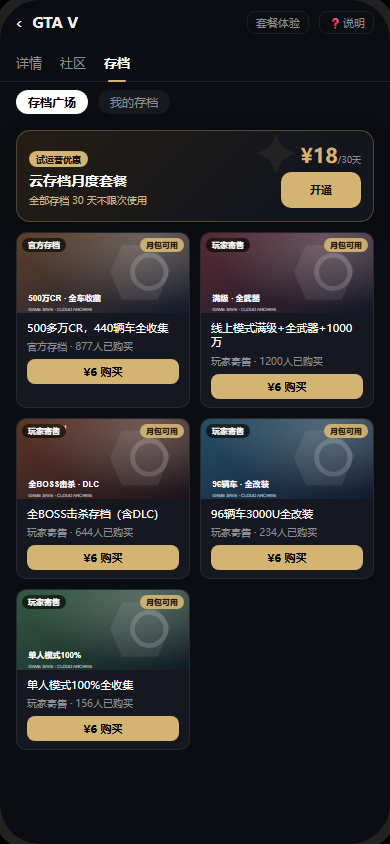
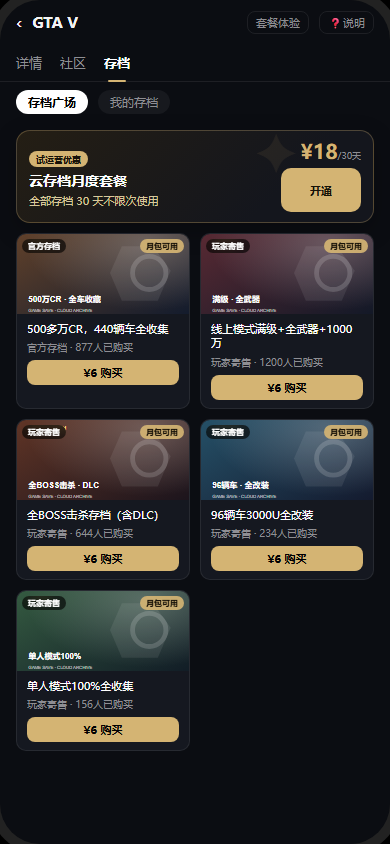
fix: improve compact pass card accessibility

diff --git a/demos/充值与商城/云存档付费demo.html b/demos/充值与商城/云存档付费demo.html
@@ -57,9 +57,9 @@ body{background:#000;display:flex;flex-direction:column;align-items:center;min-h
 .package-main{position:relative;z-index:1;min-width:0;flex:1}
 .package-side{position:relative;z-index:1;width:92px;flex:0 0 92px;display:flex;flex-direction:column;align-items:flex-end;gap:7px}
 .package-promo{display:inline-block;padding:2px 7px;border-radius:8px;background:var(--primary);color:#171208;font-size:9px;font-weight:bold;margin-bottom:4px}
-.package-name{display:block;font-size:14px;color:#fff;white-space:nowrap}.package-copy{font-size:10px;color:#c8b98e;margin-top:3px;white-space:nowrap}
+.package-name{display:block;font-size:14px;color:#fff;white-space:nowrap}.package-copy{font-size:11px;color:#d8c89d;margin-top:3px;white-space:nowrap}
 .package-price{text-align:right;white-space:nowrap;line-height:1}.package-price strong{font-size:20px;color:var(--primary)}.package-price span{font-size:9px;color:var(--sub)}
-.package-action{width:80px;min-height:36px;padding:7px 8px;border-radius:10px;border:none;background:var(--primary);color:#171208;font-size:11px;font-weight:bold;cursor:pointer;white-space:nowrap}
+.package-action{width:80px;min-height:44px;padding:7px 8px;border-radius:10px;border:none;background:var(--primary);color:#171208;font-size:11px;font-weight:bold;cursor:pointer;white-space:nowrap}
 .package-action.ghost{background:rgba(212,180,115,.12);color:var(--primary);border:1px solid rgba(212,180,115,.22);cursor:default}
 .status-card{margin:10px 16px 0;padding:11px 12px;border-radius:12px;background:linear-gradient(135deg,rgba(212,180,115,.14),rgba(255,255,255,.025));border:1px solid rgba(212,180,115,.2)}
 .status-row{display:flex;justify-content:space-between;align-items:center;gap:8px}.status-title{font-size:12px;font-weight:bold}.status-pill{font-size:9px;padding:2px 7px;border-radius:9px;background:rgba(255,255,255,.08);color:var(--sub)}.status-pill.active{background:rgba(82,196,26,.14);color:var(--green)}.status-pill.expired{background:rgba(245,34,45,.14);color:#ff7875}

diff --git a/docs/superpowers/specs/2026-07-27-cloud-save-compact-pass-card-design.md b/docs/superpowers/specs/2026-07-27-cloud-save-compact-pass-card-design.md
@@ -20,7 +20,7 @@
 
 - 展示价格“¥18/30天”。
 - 价格下方展示紧凑操作按钮。
-- 按钮点击热区不小于 72×36px。
+- 按钮点击热区不小于 72×44px。
 
 ### 2.3 删除内容
 
@@ -66,7 +66,7 @@
 ## 7. 验证要点
 
 - 390px 竖屏下卡片高度为 88～96px，内容无截断、换行或重叠。
-- 价格、标签、标题和按钮互不挤压，按钮点击热区符合要求。
+- 价格、标签、标题和按钮互不挤压，按钮点击热区不小于 72×44px。
 - 未开通、有效、已到期和已提前续费四种状态文案与交互正确。
 - 顶部卡片不再出现两行已删除说明。
 - 存档详情页仍可选择 ¥6 永久购买。
